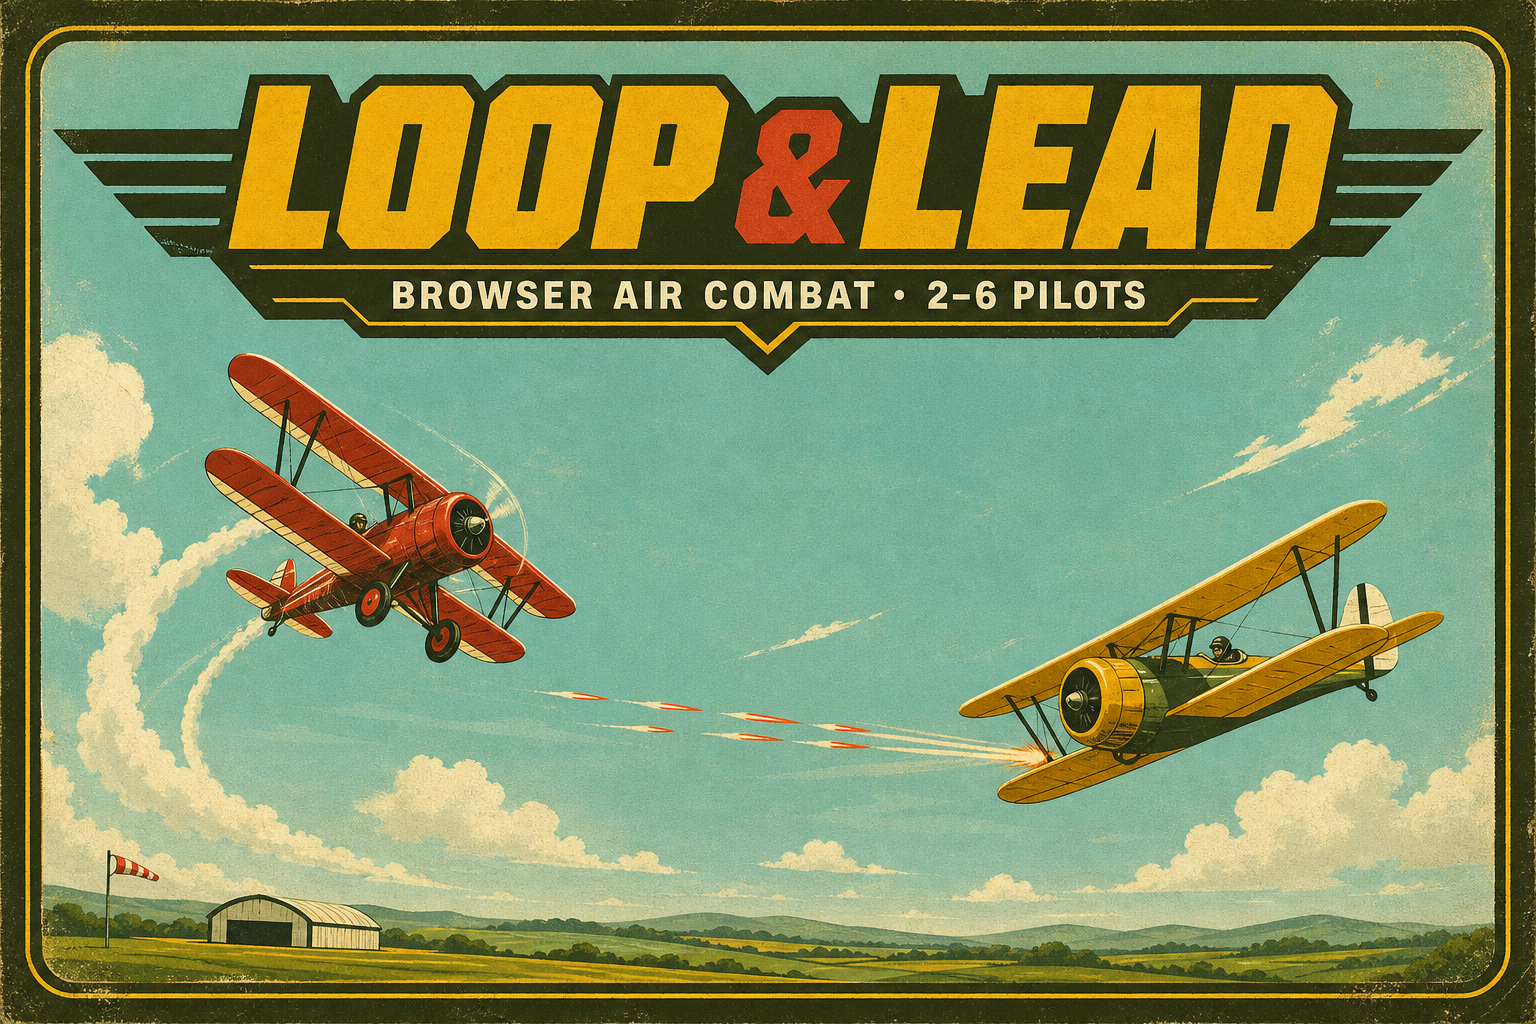
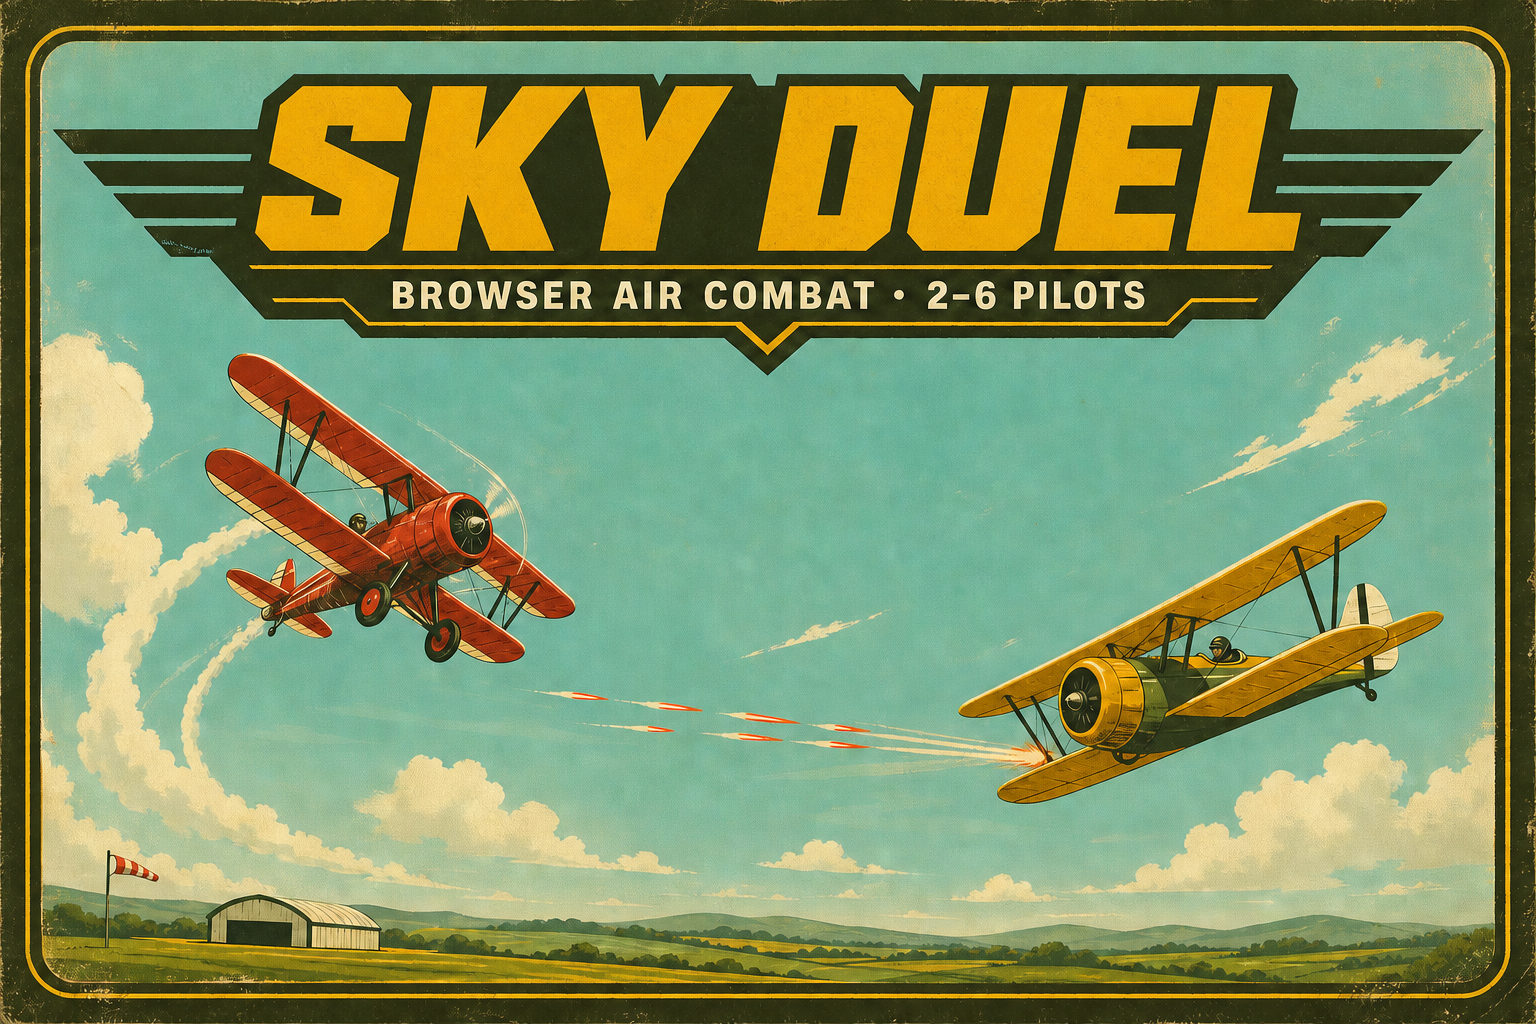
Fix Sky Duel flight power and stall recovery

diff --git a/lib/game-core.ts b/lib/game-core.ts
@@ -1,14 +1,15 @@
 export const WORLD_WIDTH = 1200;
 export const WORLD_HEIGHT = 675;
 export const MAX_PLAYERS = 6;
-export const STALL_SPEED = 72;
-export const RECOVERY_SPEED = 92;
+export const STALL_SPEED = 68;
+export const RECOVERY_SPEED = 88;
 
-const GRAVITY = 84;
-const ENGINE_THRUST = 31;
-const DRAG = 0.00175;
-const LIFT = 0.00485;
-const TURN_RATE = 2.35;
+const GRAVITY = 76;
+const ENGINE_THRUST = 48;
+const DRAG = 0.0019;
+const LIFT = 0.00318;
+const TURN_RATE = 1.55;
+const SIDE_SLIP_DAMPING = 2.4;
 const PLANE_RADIUS = 14;
 const BULLET_SPEED = 365;
 const FIRE_DELAY = 0.23;
@@ -67,12 +68,12 @@ export type GameState = {
 const COLORS = ["#f3c84b", "#e85d45", "#4e9fe6", "#70b86f", "#d884d6", "#f0eee2"];
 
 const SPAWNS = [
-  { x: 128, y: 510, angle: -0.08, speed: 132, liftSide: 1 as const },
-  { x: 1072, y: 510, angle: Math.PI + 0.08, speed: 132, liftSide: -1 as const },
-  { x: 250, y: 315, angle: -0.12, speed: 136, liftSide: 1 as const },
-  { x: 950, y: 315, angle: Math.PI + 0.12, speed: 136, liftSide: -1 as const },
-  { x: 385, y: 185, angle: 0.08, speed: 138, liftSide: 1 as const },
-  { x: 815, y: 185, angle: Math.PI - 0.08, speed: 138, liftSide: -1 as const },
+  { x: 128, y: 360, angle: 0, speed: 158, liftSide: 1 as const },
+  { x: 1072, y: 405, angle: Math.PI, speed: 158, liftSide: -1 as const },
+  { x: 250, y: 285, angle: 0, speed: 160, liftSide: 1 as const },
+  { x: 950, y: 250, angle: Math.PI, speed: 160, liftSide: -1 as const },
+  { x: 385, y: 180, angle: 0, speed: 162, liftSide: 1 as const },
+  { x: 815, y: 145, angle: Math.PI, speed: 162, liftSide: -1 as const },
 ];
 
 export function createGame(): GameState {
@@ -165,9 +166,9 @@ export function stepGame(
     const angleOfAttack = Math.abs(angleDifference(plane.angle, velocityAngle));
     const wasStalled = plane.stalled;
 
-    if (!plane.stalled && (forwardSpeed < STALL_SPEED || (angleOfAttack > 0.72 && speed < 132))) {
+    if (!plane.stalled && (speed < STALL_SPEED || (speed < RECOVERY_SPEED && angleOfAttack > 1))) {
       plane.stalled = true;
-    } else if (plane.stalled && forwardSpeed > RECOVERY_SPEED && angleOfAttack < 0.38) {
+    } else if (plane.stalled && speed > RECOVERY_SPEED && forwardSpeed > 0 && angleOfAttack < 0.7) {
       plane.stalled = false;
     }
 
@@ -176,8 +177,8 @@ export function stepGame(
     }
 
     const authority = plane.stalled
-      ? 0.43
-      : clamp((speed - 38) / 82, 0.38, 1);
+      ? 0.62
+      : clamp((speed - 42) / 90, 0.48, 1);
     plane.angle = normalizeAngle(plane.angle + input.turn * TURN_RATE * authority * safeDt);
 
     const noseX = Math.cos(plane.angle);
@@ -186,14 +187,20 @@ export function stepGame(
     const topY = -Math.cos(plane.angle) * plane.liftSide;
     const refreshedForwardSpeed = Math.max(0, plane.vx * noseX + plane.vy * noseY);
     const liftForce = plane.stalled
-      ? refreshedForwardSpeed * refreshedForwardSpeed * LIFT * 0.07
-      : Math.min(126, refreshedForwardSpeed * refreshedForwardSpeed * LIFT);
-    const thrust = ENGINE_THRUST * (plane.stalled ? 0.72 : 1);
+      ? refreshedForwardSpeed * refreshedForwardSpeed * LIFT * 0.08
+      : Math.min(112, refreshedForwardSpeed * refreshedForwardSpeed * LIFT);
+    const thrust = ENGINE_THRUST * (plane.stalled ? 0.8 : 1);
     const currentSpeed = Math.max(1, planeSpeed(plane));
     const dragForce = DRAG * currentSpeed;
+    const sideSpeed = plane.vx * topX + plane.vy * topY;
+    const sideSlipDamping = plane.stalled ? 0.28 : SIDE_SLIP_DAMPING;
 
-    plane.vx += (noseX * thrust + topX * liftForce - plane.vx * dragForce) * safeDt;
-    plane.vy += (noseY * thrust + topY * liftForce - plane.vy * dragForce + GRAVITY) * safeDt;
+    plane.vx +=
+      (noseX * thrust + topX * liftForce - plane.vx * dragForce - topX * sideSpeed * sideSlipDamping) *
+      safeDt;
+    plane.vy +=
+      (noseY * thrust + topY * liftForce - plane.vy * dragForce + GRAVITY - topY * sideSpeed * sideSlipDamping) *
+      safeDt;
 
     plane.x += plane.vx * safeDt;
     plane.y += plane.vy * safeDt;

diff --git a/app/game/SkyDuel.tsx b/app/game/SkyDuel.tsx
@@ -24,7 +24,7 @@ type NetworkMessage =
 
 const neutralInput: PilotInput = { turn: 0, fire: false };
 
-export function LoopAndLead() {
+export function SkyDuel() {
   const canvasRef = useRef<HTMLCanvasElement>(null);
   const gameRef = useRef<GameState>(makeAttractGame());
   const roomRef = useRef<PeerRoom | null>(null);
@@ -276,14 +276,14 @@ export function LoopAndLead() {
   return (
     <main className="site-shell">
       <header className="masthead">
-        <div className="brand-lockup" aria-label="Loop and Lead">
+        <div className="brand-lockup" aria-label="Sky Duel">
           <span className="brand-kicker">BROWSER AIR COMBAT · 2–6 PILOTS</span>
-          <h1>LOOP <i>&amp;</i> LEAD</h1>
+          <h1>SKY <i>DUEL</i></h1>
         </div>
         <p className="masthead-note">One sky. Two controls. No upgrades.</p>
       </header>
 
-      <section className="game-cabinet" aria-label="Loop and Lead game">
+      <section className="game-cabinet" aria-label="Sky Duel game">
         <div className="cabinet-topline">
           <span>{screen === "playing" ? modeLabel(mode) : "AIRFIELD 01"}</span>
           <span className="status-copy">{message}</span>

diff --git a/app/layout.tsx b/app/layout.tsx
@@ -18,7 +18,7 @@ export async function generateMetadata(): Promise<Metadata> {
   const host = requestHeaders.get("x-forwarded-host") ?? requestHeaders.get("host") ?? "localhost:3000";
   const protocol = requestHeaders.get("x-forwarded-proto") ?? (host.startsWith("localhost") ? "http" : "https");
   const base = new URL(`${protocol}://${host}`);
-  const title = "Loop & Lead — Browser Biplane Dogfights";
+  const title = "Sky Duel — Browser Biplane Dogfights";
   const description =
     "A deliberately simple, old-school biplane dogfight for two to six pilots. Keep your speed, lead your shot, and recover from the stall.";
   return {

diff --git a/app/game/peer-room.ts b/app/game/peer-room.ts
@@ -174,7 +174,7 @@ export class PeerRoom {
     connection.ondatachannel = (event) => this.attachChannel(peerId, event.channel);
 
     if (initiator) {
-      this.attachChannel(peerId, connection.createDataChannel("loop-and-lead"));
+      this.attachChannel(peerId, connection.createDataChannel("sky-duel"));
       const offer = await connection.createOffer();
       await connection.setLocalDescription(offer);
       await this.signal(peerId, "offer", offer);

diff --git a/app/page.tsx b/app/page.tsx
@@ -1,5 +1,5 @@
-import { LoopAndLead } from "./game/LoopAndLead";
+import { SkyDuel } from "./game/SkyDuel";
 
 export default function Home() {
-  return <LoopAndLead />;
+  return <SkyDuel />;
 }

diff --git a/README.md b/README.md
@@ -1,4 +1,4 @@
-# Loop & Lead
+# Sky Duel
 
 An original browser homage to early console biplane dogfights. Two to six pilots share one compact airfield with constant engine power, basic forward guns, momentum, stalls, and genuine nose-down recovery.
 
@@ -37,7 +37,7 @@ npx tsc --noEmit
 
 ## Project map
 
-- `app/game/LoopAndLead.tsx` — game shell, controls, modes, and match loop
+- `app/game/SkyDuel.tsx` — game shell, controls, modes, and match loop
 - `lib/game-core.ts` — shared flight, stall, collision, firing, and scoring rules
 - `app/game/peer-room.ts` — six-player WebRTC room connection
 - `worker/game-api.ts` — room codes and WebRTC signaling
